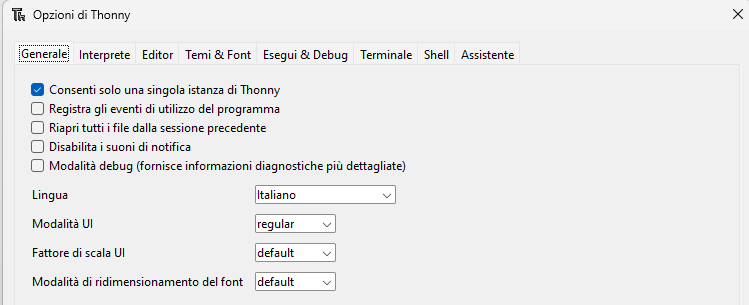
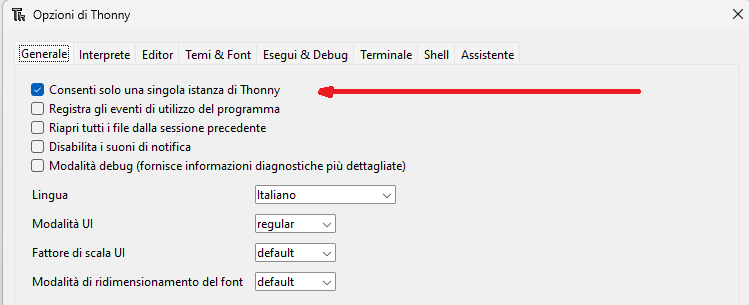
thonny base settings

Changed region(s): [[0.4299, 0.2656, 0.8598, 0.3246]]

diff --git a/docs/basics/001_install.md b/docs/basics/001_install.md
@@ -144,19 +144,32 @@ del prossimo capitolo.
 <!-- ############################################################################################ -->
 ## Thonny, impostazioni di base
 
-(fra un pò ci scriverò qualcosa di intelligente... per adesso avete gli screenshot delle impostazioni
-consigliate...)
+
+Per accedere al menù delle impostazioni di Thonny, selezionate la voce STRUMENTI ---> OPZIONI.
+
+
+Nella scheda **GENERALE** vi invio a selezionare la voce evidenziata. Le altre sono a vostro piacimento:
 
 ![image](images/Thonny_General.png)
 
 
+Nella scheda **EDITOR** ci sono le opzioni più importanti per lavorare bene durante la scrittura del software. 
+Nel laboratorio sono impostate così. Quelle sottolineate sono quelle assolutamente necessarie!!!
+
 ![image](images/Thonny_Editor.png)
 
+
+Nella scheda **RUN && DEBUG** c'è solo una opzione interessante per noi: forza il salvataggio automatico dei programmi
+da eseguire!
 
 ![image](images/Thonny_Run_Debug.png)
 
 
+Nella scheda **ASSISTANT** abbiamo disabilitato tutto! Durante l'esecuzione andremo a leggere i suggerimenti direttamente dall'interprete nella shell!
+
 ![image](images/Thonny_Assistant.png)
+
+
 
 <br>
 <br>
